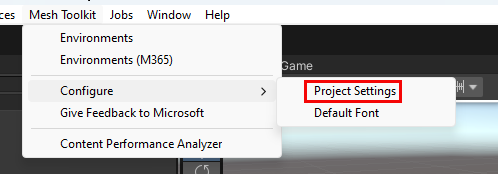
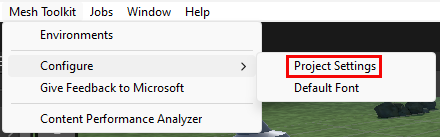
edits-and-new-megha-images-100523-0046

diff --git a/mesh/Create/getting-started/mesh-101-tutorial/mesh-101-03-visual-scripting.md b/mesh/Create/getting-started/mesh-101-tutorial/mesh-101-03-visual-scripting.md
@@ -62,7 +62,7 @@ As you can see, there's already a video screen in place, but it needs a Play/Sto
 
     ![A screenshot of a computer Description automatically generated](../../../media/sample-mesh-101/404-chapter-3-expanded.png)
 
-1. Search for the **ButtonBase** prefab. Make sure you choose **ALL** for the **Search** filter.
+1. In the **Project** window, search for the **ButtonBase** prefab. Make sure you choose **ALL** for the **Search** filter.
 
     ![A screenshot of a computer Description ](../../../media/sample-mesh-101/032-buttonbase-v2.png)
 
@@ -113,14 +113,14 @@ Right now, the text on the button says "Label." Let's change that to
 1. In the **Hierarchy**, ensure that **PlayVideoButton** is selected.
 1. In the **Inspector**, click **Add Component**, and then select **Script Machine**.
 
-Note that two new components have been added in the **Inspector**: **Script Machine** and **Variables.** There's also a new window named *Mesh Visual Scripting Diagnostics* at the bottom of the **Inspector**. This window will give you feedback on your visual script and can be useful for troubleshooting.
+    Note that two new components have been added in the **Inspector**: **Script Machine** and **Variables.** There's also a new window named *Mesh Visual Scripting Diagnostics* at the bottom of the **Inspector**. This window will give you feedback on your visual script and can be useful for troubleshooting.
 
-![A screenshot of a video play Description ](../../../media/sample-mesh-101/201-script-machine-v2.png)
+    ![A screenshot of a video play Description ](../../../media/sample-mesh-101/201-script-machine-v2.png)
 
-1. Note that in the **Script Machine** component, the **Source** is set to **Graph**. You have two choices for **Source**: *Graph* and *Embed*. Click **Source** and then select **Embed**.
+1. Note that in the **Script Machine** component, the **Source** option is set to **Graph**. You have two choices for **Source**: *Graph* and *Embed*. Click **Source** and then select **Embed**.
 
     > [!TIP]
-    > *Graph* and *Embed* each have advantages and disadvantages; you can learn more about them in the [Unity Script Machine artice](https://docs.unity3d.com/Packages/com.unity.visualscripting@1.8/manual/vs-graph-machine-types.html). We're choosing to use *Embed* here because, among other things, you can directly reference your scene nodes without making intermediate Object variables.
+    > *Graph* and *Embed* each have advantages and disadvantages; you can learn more about them in the [Unity Script Machine article](https://docs.unity3d.com/Packages/com.unity.visualscripting@1.8/manual/vs-graph-machine-types.html). We're choosing to use *Embed* here because, among other things, you can directly reference your scene nodes without making intermediate Object variables.
 
 1. In the **Script Machine** component, enter a name in the *Title* field for the graph: "Video Player Behavior."
 1. Enter a description in the *Summary* field for the graph: "Video player behavior definition."
@@ -133,7 +133,7 @@ Note that two new components have been added in the **Inspector**: **Script Mach
 
     As we add nodes, you may want more space in the window; you can click the three-dot button and then select **Maximize** to achieve this, or click the **Full Screen** button in the upper right corner of the window.
 
-1. We don't need the **OnStart** and **OnUpdate** nodes; delete them.
+1. We don't need the default **OnStart** and **OnUpdate** nodes; delete them.
 
 ### Detect if the button is clicked
 
@@ -172,7 +172,11 @@ The first goal, detect if the button is clicked, will require three nodes. The G
 >
 > This component is added automatically at runtime to interactable bodies; it exposes various properties to Visual Scripting such as *IsHovered* and *IsSelected*, which will come in handy in a moment.
 >
-> You can choose to have the Unity UI  display a different color tint in Play mode than in Edit mode. In the image above, the Playmode tint has been changed to blue. This can help you to tell at a glance which mode you're in.
+> You can choose to have the Unity UI  display a different color tint in Play mode than in Edit mode. In the image above, the Playmode tint has been changed to blue. This can help you to tell at a glance which mode you're in. To change the Playmode tint:
+>
+>1. On the menu bar, select **Edit** > **Preferences**.
+>1. In the left-side menu, select **Colors**.
+>1. Under **General**, click the **Playmode tint** color box and then select the color you want.
 
 In the script graph, let's add a node that lets us know when the button is selected.
 1. Make sure you're viewing the embedded script graph that's attached to the **PlayVideoButton** GameObject.
@@ -210,11 +214,11 @@ If *On State Changed* has a value of true, the video will play. If it's already 
 
     ![A screenshot of a video play Description ](../../../media/sample-mesh-101/454-isplaying-var.png)
 
-1. Drag a connector from the **True** output control port of the "If" node and then create a new *Set Object Variable* node. (In the Fuzzy Finder, search for "if."). 
+1. Drag a connector from the **True** output control port of the "If" node and then create a new *Set Object Variable* node. (In the Fuzzy Finder, search for "set object."). 
 
     ![A screenshot of a video play Description ](../../../media/sample-mesh-101/417-set-object-variable-node.png)
 
-1. In the **Set Object Variable" node, click the variable name drop-down and then select "isPlaying."
+1. In the **Set Object Variable** node, click the variable name drop-down and then select "isPlaying."
 
     ![A screenshot of a video play Description ](../../../media/sample-mesh-101/418-set-var-is-playing.png)
 
@@ -359,7 +363,7 @@ For this feature, we'll enhance an existing visual script that causes an info di
 
 1. In the **Hierarchy**, select **InfoButtonWrapper**.
 
-    ![A screen shot of 3.2 - Info_Dialog GameObject Hierarchy with Information_Button selected](../../../media/sample-mesh-101/433-info-buttton-wrapper.png)
+    ![A screen shot of 3.2 - Info_Dialog GameObject Hierarchy with Information_Button selected](../../../media/sample-mesh-101/480-wrapper.png)
 
     In the **Inspector**, note that **InfoButtonWrapper** has the **Local Script Scope* component attached and that its "Share visual script variables on this Game Object" option isn't selected. 
     
@@ -371,8 +375,7 @@ For this feature, we'll enhance an existing visual script that causes an info di
 
     ![A screen shot of the Information_Button's Inspector](../../../media/sample-mesh-101/436-edit-graph-button.png)
 
-1. In the graph, connect the "True" output control port of the "If" node to the input control port of a new "Microsoft Mesh: Show Dialog" node that you create.
-1. Drag a connector from the "True" output control port of the "If" node and then create a new "Microsoft Mesh: Show Dialog" node . (In the Fuzzy Finder, search for "show dialog".)
+1. In the graph, drag a connector from the "True" output control port of the "If" node and then create a new "Microsoft Mesh: Show Dialog" node . (In the Fuzzy Finder, search for "show dialog".)
 
     ![A screen shot showing the if node connect to the new Show Dialog node.](../../../media/sample-mesh-101/303-show-dialog.png)
 
@@ -499,7 +502,7 @@ So what's a "Travel Point", you might be asking ... ? Basically, it's a componen
 
     ![A screen shot](../../../media/sample-mesh-101/444-select-travel-point.png)
 
-There's just one thing left to do in this graph. Note that the "Set Object Variable" node contains an object variable named *TeleportNow*. After the teleport happens, we want this variable to be set to false. So far, *TeleportNow* has only been used in the part of the graph that was already set up for you so we haven't talked about it. Let's take a look at how it works in the scen so you can understand what's happening.
+There's just one thing left to do in this graph. Note that the "Set Object Variable" node contains an object variable named *TeleportNow*. After the teleport happens, we want this variable to be set to false. So far, *TeleportNow* has only been used in the part of the graph that was already set up for you so we haven't talked about it. Let's take a look at how it works in the scene so you can understand what's happening.
 
 The *TeleportNow* object variable is type *Boolean* and has a default value of False.
 

diff --git a/mesh/Create/getting-started/mesh-101-tutorial/mesh-101-01-overview-and-setup.md b/mesh/Create/getting-started/mesh-101-tutorial/mesh-101-01-overview-and-setup.md
@@ -57,7 +57,9 @@ In Mesh terms, the project you create in Unity and then upload to the Mesh Porta
 
 ### Previous Unity experience
 
-This tutorial assumes that you have the intermediate to advanced Unity skills needed to creative an Environment. If you don't, you can still [create, customize and produce](../../../../Use/events-guide/create-event-mesh-portal.md) Mesh events using existing Environments.
+This tutorial assumes that you have the intermediate to advanced Unity skills needed to creative an Environment. We also recommend that you have some familiarity with Unity Visual Scripting; however, we've gotten feedback from scripting novices that they found the tutorial easy to follow. A good place to learn Visual Scripting basics is through [Unity's Visual Scripting tutorial](https://learn.unity.com/project/introduction-to-visual-scripting). This teaches you most if not all of the concepts you need to get started with Mesh Visual Scripting. 
+
+If you don't, you can still [create, customize and produce](../../../../Use/events-guide/create-event-mesh-portal.md) Mesh events using existing Environments.
 
 ### Hardware requirements
 
@@ -69,7 +71,7 @@ Unity version 2022.3.7f1 is required for this tutorial.
 
 [Get help installing Unity](https://docs.unity3d.com/hub/manual/InstallEditors.html)
 
-Your installation should include modules for Android and Windows.
+Your installation should include modules for Android and Windows. The Mesh app works for PC and the Oculus Quest 2, and Android is the operating system for the Quest.
 
 ## Set things up for Mesh
 
@@ -96,7 +98,7 @@ The Mesh Toolkit contains the *Mesh 101* tutorial project.
 
 1. On your C: drive, create a folder with a one-word name (for example,"Mesh101") and then move or copy the downloaded Mesh Toolkit Zip file to that folder. This is done to avoid running into a problem with the Windows path length limit, which is 256 characters. **IMPORTANT**: *Don't* place the Zip file on the Windows desktop. Behind the scenes, this creates a very long path name.
 
-    In the example below, the user created a folder on their C: drive named *Mesh101.* Next, they moved the downloaded Mesh Toolkit Zip file to the *Mesh101* folder
+    In the example below, the user created a folder on their C: drive named *Mesh101.* Next, they moved the downloaded Mesh Toolkit Zip file to the *Mesh101* folder.
 
     ![A screenshot of a computer Description automatically generated](../../../media/sample-mesh-101/471-toolkit-zip-in-folder.png)
 

diff --git a/mesh/Create/getting-started/mesh-101-tutorial/mesh-101-02-prepare-the-project.md b/mesh/Create/getting-started/mesh-101-tutorial/mesh-101-02-prepare-the-project.md
@@ -17,7 +17,7 @@ keywords: Microsoft Mesh, getting started, Mesh 101, tutorial
 
 2. In the **Assets** folder, there are two scenes available: **Starting Point** and **Finished Project**.
 
-    ![A screenshot of a computer Description ](../../../media/sample-mesh-101/image010.png)
+    ![A screenshot of a computer Description ](../../../media/sample-mesh-101/481-project-settings.png)
 
     Open the **StartingPoint** scene. You should see the **TMP Importer** window.
 
@@ -72,9 +72,9 @@ learn about Mesh Physics.
 
 ![A screenshot of a computer Description ](../../../media/sample-mesh-101/014-chapter-4-sphere-terrace-v2.png)
 
-### Add the PlayModeSetup prefab
+### Add the PlaymodeSetup prefab
 
-Adding the PlayModeSetup prefab will allow you to run the project in
+Adding the PlaymodeSetup prefab will allow you to run the project in
 *Playmode*. This gives you a preview of what the content will look and
 feel like when it runs in the *Mesh app*. A key feature of Playmode is
 the ability to run multiple clients within the same process; this allows
@@ -96,7 +96,7 @@ you to easily get a first impression of a multi-user scenario.
 
 2. Select the Unity Editor Play button.
 
-3. In the **Game** window, note that you now have a view from the avatar's position. Use the <kbd>W</kbd><kbd>A</kbd><kbd>S</kbd><kbd>D</kbd> keys to walk around inside the Sphere Terrace. You can also use the arrow keys or drag the right mouse button to pan in any direction. When you're done experimenting, click the Unity Editor Play button again to exit Play mode.
+3. In the **Game** window, note that you now have a view from the avatar's position. Use the <kbd>W</kbd><kbd>A</kbd><kbd>S</kbd><kbd>D</kbd> keys to walk around inside the Sphere Terrace. You can also use the arrow keys or drag the right mouse button to pan in any direction. When you're done experimenting, click the Unity Editor Play button again to exit Playmode.
 
 ### Check the scale of your GameObjects
 

diff --git a/mesh/Create/getting-started/mesh-101-tutorial/mesh-101-05-make-environment-available.md b/mesh/Create/getting-started/mesh-101-tutorial/mesh-101-05-make-environment-available.md
@@ -18,16 +18,7 @@ Mesh *Environment* and upload it to a Mesh *World* in the Mesh Portal. At that p
 > [!IMPORTANT]
 > A Teams Premium license is required for using the Mesh application for custom immersive spaces in Mesh on PC and Quest. A license isn't required to develop with the Mesh Toolkit, but you'll be blocked from building and publishing Environments to Mesh and organizing or joining events in Mesh if you and your users don't have Teams Premium licenses. For more information, see [Set up M365 for Microsoft Mesh](../../../Setup/Content/setup-m365-mesh.md).
 
-## Configure your project settings and sign in
-
-1. On the menu bar, select **Mesh Toolkit** > **Configure** >
-    **Project Settings**.
-
-    ![A screenshot of a computer Description automatically generated](../../../media/sample-mesh-101/001-project-settings.png)
-
-1. Select **Yes** to configure project settings for Mesh.
-
-    ![Graphical user interface, text, application Description automatically generated](../../../media/sample-mesh-101/image089.png)
+## Sign in
 
 1. On the menu bar, select **Mesh Toolkit** > **Environments**.
 1. In the **Mesh Environments** window, select **Sign In**.
@@ -119,8 +110,8 @@ Select the **Build & Publish** button.
 
 ## View your Environment in the Mesh Portal
 
-If you navigate to the **Environments** page for your World in the Mesh 
-Portal, you'll see that your Environment has been saved there. 
+If you navigate to the **Environments** page for your World in the [Mesh 
+Portal](https://portal.mesh.microsoft.com), you'll see that your Environment has been saved there. 
 
 ![A screenshot of a computer Description automatically generated](../../../media/sample-mesh-101/458-environment-in-mesh-portal.png)
 

diff --git a/mesh/Create/getting-started/mesh-101-tutorial/mesh-101-04-physics.md b/mesh/Create/getting-started/mesh-101-tutorial/mesh-101-04-physics.md
@@ -68,9 +68,9 @@ generate power.
 Let's add "grab and release" capabilities to **WindTurbine1** so that participants will be able to move it around in Mesh.
 
 1. In the **Hierarchy**, select **WindTurbine1**.
-1. In the **Inspector**, click the **Add Component** button and then search for and add **Mesh Interactable Properties**.
+1. In the **Inspector**, click the **Add Component** button and then search for and add **Mesh Interactable Setup**.
 
-    ![A screenshot](../../../media/sample-mesh-101/320-interactable-properties.png)
+    ![A screenshot](../../../media/sample-mesh-101/320-interactable-setup.png)
 
 > [!TIP]
 > An explanation of this component was given in [Chapter 3](mesh-101-03-visual-scripting.md) of this tutorial.
@@ -222,7 +222,7 @@ will be restricted to the inside of the box.
     ![A screenshot of a computer Description automatically generated](../../../media/sample-mesh-101/image086.jpg)
 
 1. In the **Starts With** box, type "WindTurbine." Since all three wind
-    turbines in our scene start with "WindTurbine," they'll all be
+    turbines in our scene start with "WindTurbine" they'll all be
     restricted to the Containment Field.
 
     ![A screenshot of a computer Description ](../../../media/sample-mesh-101/image087.png)

diff --git a/mesh/Create/getting-started/mesh-101-tutorial/mesh-101-06-create-an-event-and-invite-others.md b/mesh/Create/getting-started/mesh-101-tutorial/mesh-101-06-create-an-event-and-invite-others.md
@@ -15,9 +15,9 @@ create and produce an Event based on that Environment that participants
 can experience through the Mesh app for PC or Quest.
 
 > [!IMPORTANT]
-> Ensure that all participants have updated their Mesh app to the most recent version so they can use the link in their calendar invite and join the event you just created.
+> To ensure the best experience, we recommend that attendees to an event update the latest version of the Mesh app.
 
-1. Open the [Mesh Portal](https://portal-preview.mesh.microsoft.com/).
+1. Open the [Mesh Portal](https://portal.mesh.microsoft.com/).
 1. Log in with your corporate account.
 1. On the Home page, in the left-side navigation bar, select **Events**.
 
